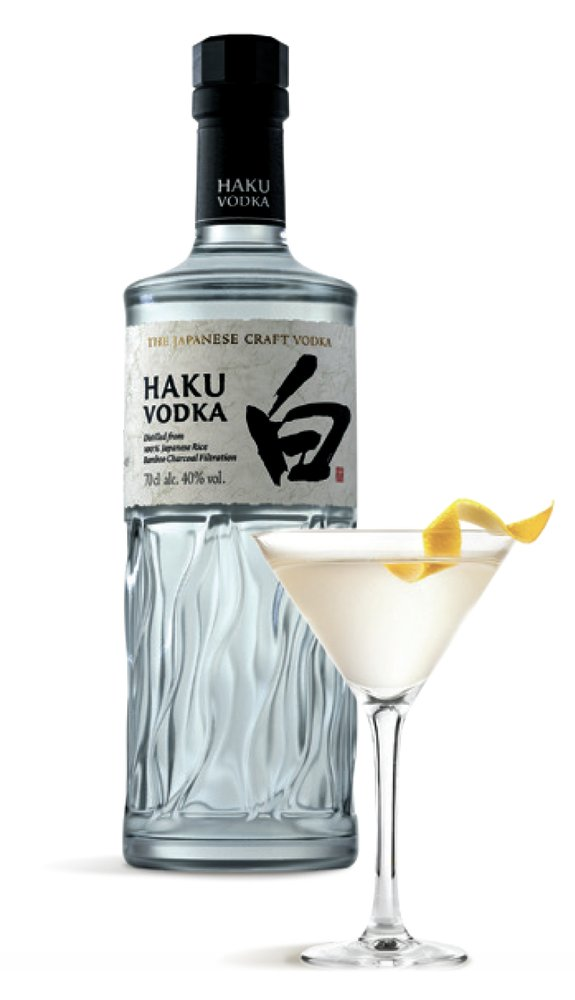
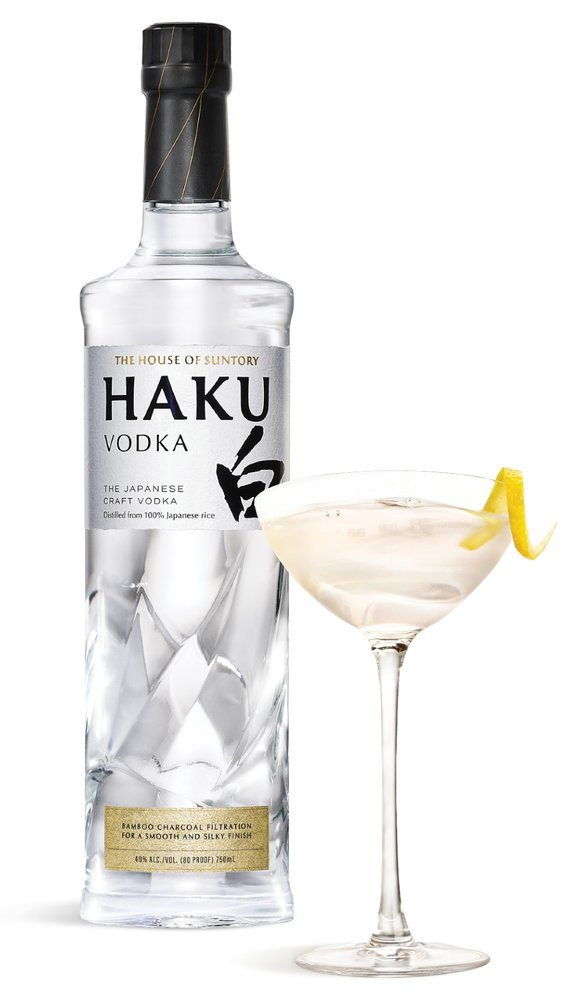
Swap Haku Vodka Martini product shot
Claude-Session: https://claude.ai/code/session_01W7WsAKtG7CKUvTwXq2bVpo

diff --git a/index.html b/index.html
@@ -382,7 +382,7 @@
             <div class="drink__media">
               <picture>
                 <source srcset="assets/img/drinks/haku-martini.webp" type="image/webp">
-                <img src="assets/img/drinks/haku-martini.jpg" width="575" height="1000" loading="lazy" alt="Haku Vodka and a Martini with a lemon twist">
+                <img src="assets/img/drinks/haku-martini.jpg" width="579" height="1000" loading="lazy" alt="Haku Vodka and a Martini with a lemon twist">
               </picture>
             </div>
             <p class="drink__label">Haku <small>Vodka Martini</small></p>
